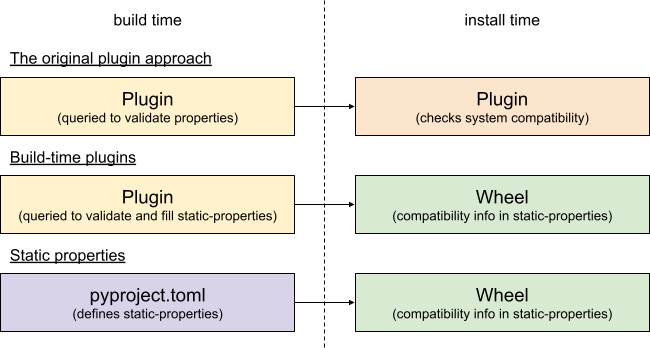
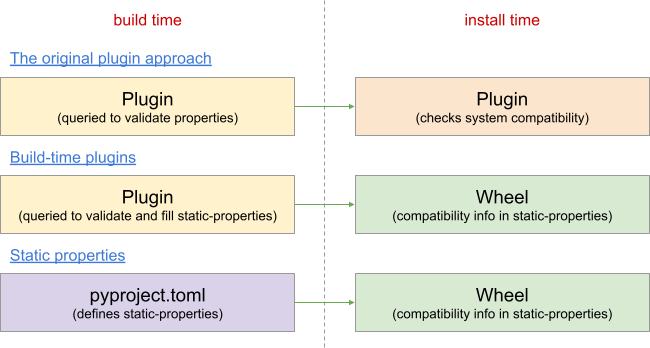
Clean up Fig. 2

diff --git a/apps/labs/posts/a-year-into-wheel-variant-work.md b/apps/labs/posts/a-year-into-wheel-variant-work.md
@@ -96,12 +96,10 @@ Providers are the core of variant wheels: they are used to determine which pro
 The original specification was based entirely on plugins that were queried at install time.
 While some use cases, hardware detection on the target machine in particular, still require such an approach, we have realized that many can be solved with static metadata.
 
-<!-- todo: add background to text to fix black bg -->
-
 <div style="text-align: center">
 <figure style="width: auto; margin: 0 2em; display: inline-block; verticalAlign: top">
   <img src="/posts/a-year-into-wheel-variant-work/provider-types.png"
-    width="650" height="348" alt="TODO" />
+    width="650" height="348" alt="Side-by-side comparison of three provider types. First, the original plugin approach is shown, where plugin is used both at build time to validate properties, and at install time to check system compatibility. Then, build-time plugins approach: a plugin at build time to validate and fill static-properties, but at install time the wheel has compatibility info in static-properties. Finally, the static property approach defines static-properties in pyproject.toml for build time use, and again the wheel has compatibility info in static-properties at install time." />
   <figcaption>Fig. 2. Different provider types</figcaption>
 </figure>
 </div>
